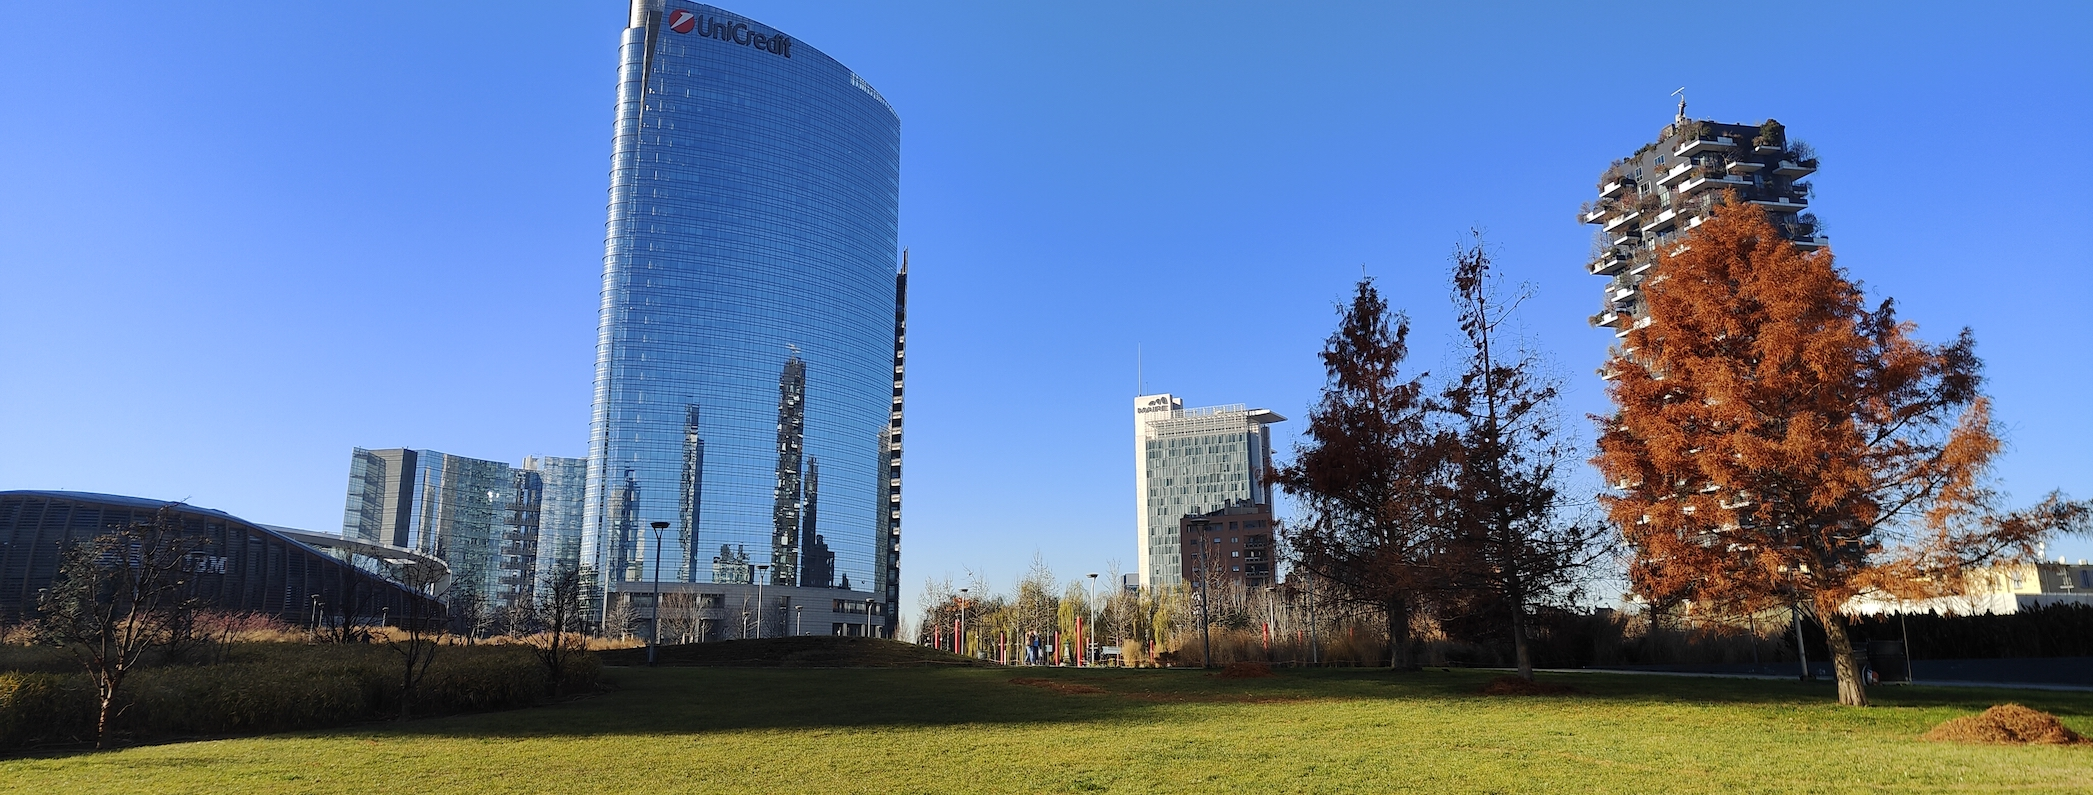
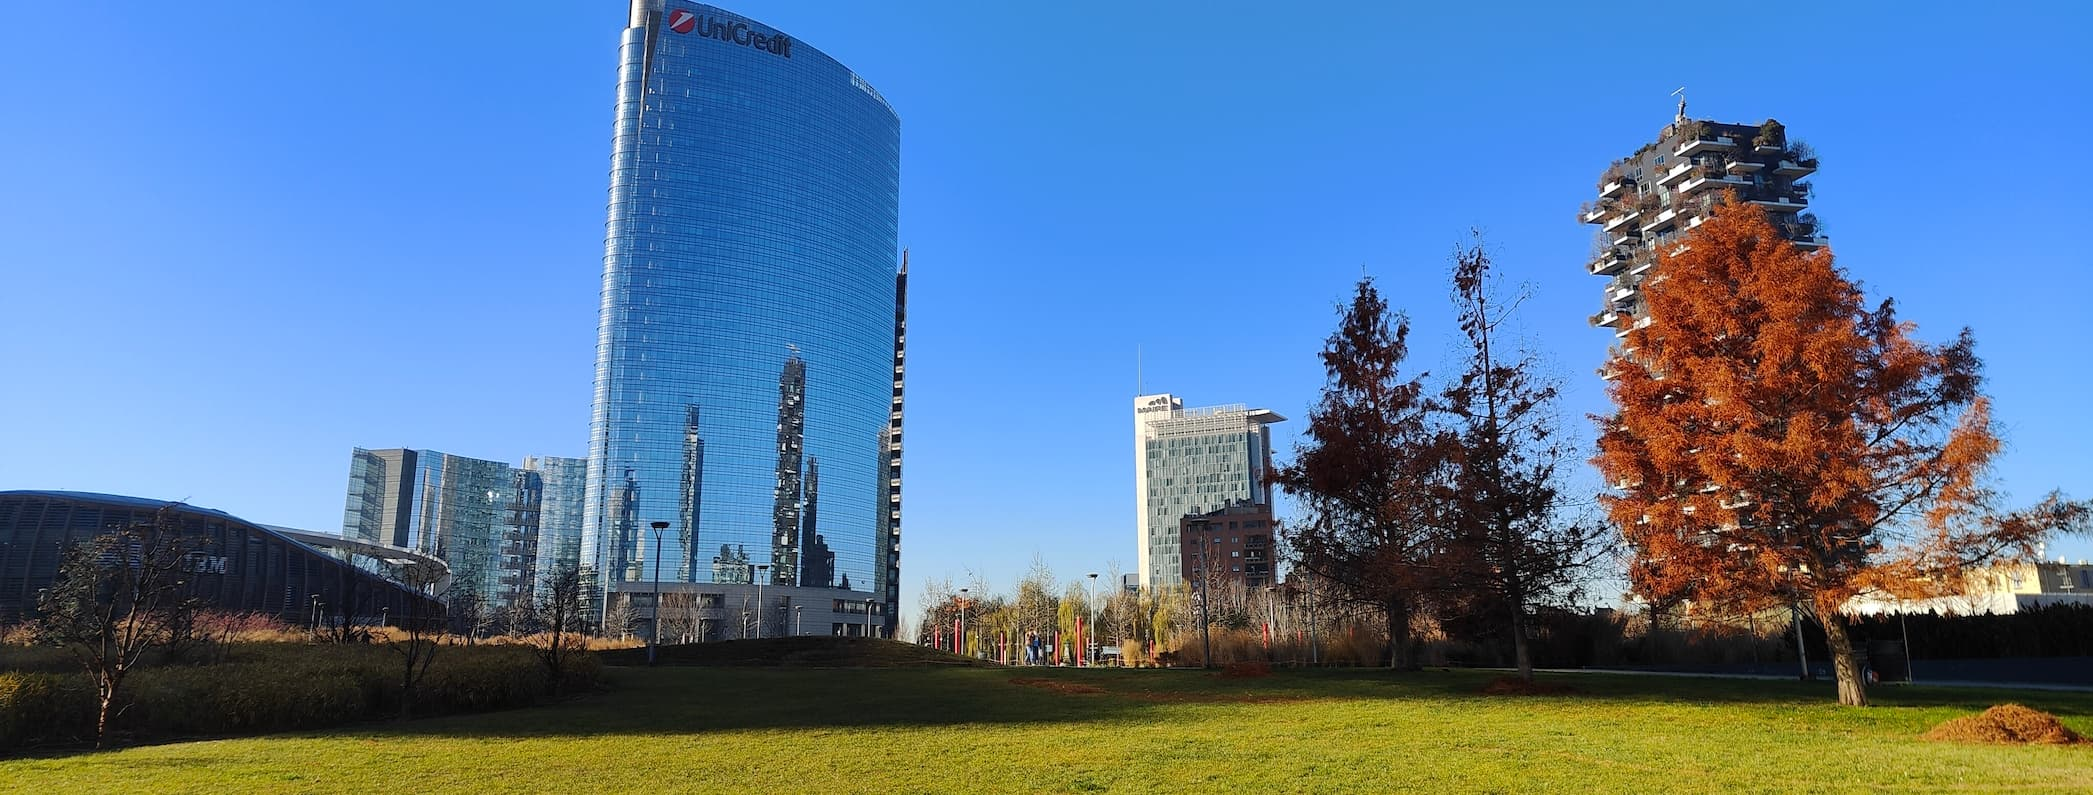
optimize all hero images

diff --git a/app/(frontend)/contact/page.tsx b/app/(frontend)/contact/page.tsx
@@ -50,6 +50,7 @@ export default async function Contact() {
           mainTitle={contact.title}
           subtitle="We'll reply as soon as possible!"
           bgImage="/images/nir-himi-tPvnpMkzET8-unsplash.jpg"
[1 lines of base64/hex data omitted]
         />
       )}
 

diff --git a/app/(frontend)/blog/page.tsx b/app/(frontend)/blog/page.tsx
@@ -53,6 +53,7 @@ export default async function Articles() {
           mainTitle={articles?.title}
           subtitle="Our latest posts from old to new. New articles every week."
           bgImage="/images/nir-himi-02LrPeeNzsA-unsplash.jpg"
[1 lines of base64/hex data omitted]
         />
       )}
 

diff --git a/app/(frontend)/about/page.tsx b/app/(frontend)/about/page.tsx
@@ -51,6 +51,7 @@ export default async function Home() {
             mainTitle={data.title}
             subtitle="Allow us to introduce ourselves!"
             bgImage="/images/nir-himi-NP3anTPI5oA-unsplash.jpg"
[1 lines of base64/hex data omitted]
           />
         )}
 

diff --git a/app/(frontend)/page.tsx b/app/(frontend)/page.tsx
@@ -129,6 +129,7 @@ export default async function Home() {
           subtitle="and stay up to date with our latest content"
           className="[&>div]:items-center h-80 lg:h-96 lg:bg-bottom"
           bgImage="/images/gae-aulenti-landscape.jpg"
[1 lines of base64/hex data omitted]
         >
           <div className="flex gap-4">
             <Button

diff --git a/app/(frontend)/privacy-policy/page.tsx b/app/(frontend)/privacy-policy/page.tsx
@@ -51,6 +51,7 @@ export default async function PrivacyPolicy() {
             mainTitle={data.title}
             subtitle="Last Updated: 18/07/2024"
             bgImage="/images/nir-himi-Z1bmf6nNVkc-unsplash.jpg"
[1 lines of base64/hex data omitted]
           />
         )}
         <div className="max-w-7xl mx-auto px-4 py-4">

diff --git a/app/(frontend)/author/[slug]/page.tsx b/app/(frontend)/author/[slug]/page.tsx
@@ -69,6 +69,7 @@ export default async function Author({ params }: AuthorProps) {
         mainTitle={author?.name}
         bgImage="/images/federico-di-dio-photography-J0xFABbh9hA-unsplash.jpg"
         className="h-auto lg:mb-12 lg:h-auto [&>div]:h-auto [&>div]:pt-6 [&>div]:px-8 [&>div]:lg:pt-8 [&>div]:pb-8 [&>div]:lg:pb-10 [&>div>h1]:mb-4"
[1 lines of base64/hex data omitted]
       >
         {author.image && (
           <Image

diff --git a/components/Hero.tsx b/components/Hero.tsx
@@ -8,6 +8,7 @@ type HeroProps = ComponentProps<'div'> &
     mainTitle: string | ReactNode;
     subtitle?: string;
     bgImage?: string;
+    placeholder?: string;
   }>;
 
 export default function Hero({
@@ -15,7 +16,8 @@ export default function Hero({
   children,
   mainTitle,
   subtitle,
-  bgImage = '/images/duomo-di-milano-by-night.jpeg'
+  bgImage = '/images/duomo-di-milano-by-night.jpeg',
+  placeholder
 }: HeroProps) {
   return (
     <div
@@ -28,9 +30,11 @@ export default function Hero({
         src={bgImage}
         fill
         priority
-        alt="background"
-        sizes="(min-width: 400px) 100vw, calc(10vw + 342px)"
+        alt="background image"
+        sizes="(min-width: 680px) 100vw, (min-width: 520px) calc(30vw + 462px), (min-width: 400px) 684px, calc(-148.75vw + 1233px)"
         className="object-cover brightness-[0.30]"
+        placeholder={placeholder ? 'blur' : 'empty'}
+        blurDataURL={placeholder}
       />
 
       <div className="text-white text-center flex align-middle h-full flex-col justify-center max-w-7xl mx-auto px-4 py-4 relative">
